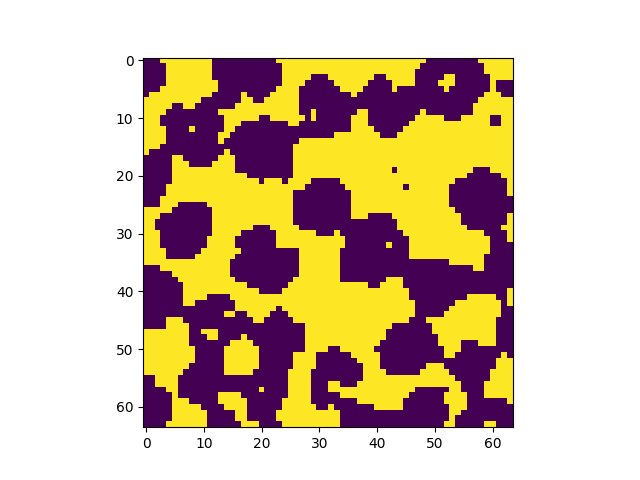
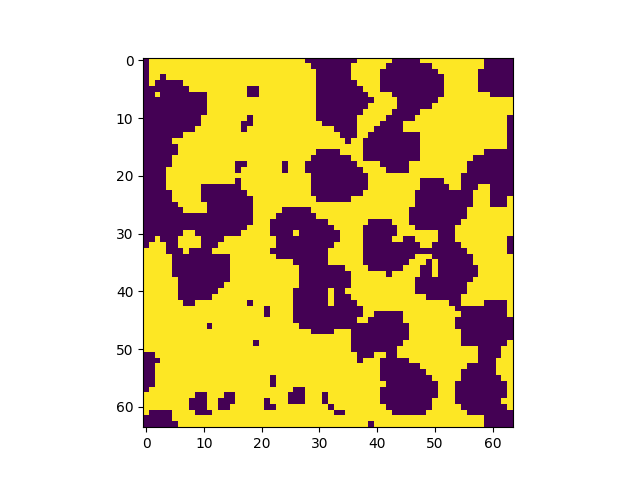
added noise choices

Changed region(s): [[0.2188, 0.125, 0.8125, 0.9062], [0.7812, 0.7188, 0.8125, 0.75]]

diff --git a/slicegan/model.py b/slicegan/model.py
@@ -11,7 +11,15 @@ import torch.nn.functional as F
 import pickle
 from cv2 import SimpleBlobDetector
 
-def train(pth, imtype, datatype, real_data, Disc, Gen, nc, l, nz, sf, lz, num_epochs, CircNet):
+noise_distributions = {
+    "normal" : torch.distributions.normal.Normal(0,1),
+    "laplace" : torch.distributions.laplace.Laplace(0,1),
+    "uniform" : torch.distributions.uniform.Uniform(-1,1),
+    "cauchy": torch.distributions.cauchy.Cauchy(0,1)
+
+}
+
+def train(pth, imtype, datatype, real_data, Disc, Gen, nc, l, nz, sf, lz, num_epochs, CircNet, noise_type):
     """
     train the generator
     :param pth: path to save all files, imgs and data
@@ -27,6 +35,12 @@ def train(pth, imtype, datatype, real_data, Disc, Gen, nc, l, nz, sf, lz, num_ep
     :param CircNet: Trained CircleNet
     :return:
     """
+
+    if noise_type not in ("normal","laplace","uniform","cauchy"):
+        raise ValueError("invalid noise distribution")
+    else:
+        noise_distribution = noise_distributions[noise_type]
+
     if len(real_data) == 1:
         real_data *= 3
         isotropic = True
@@ -104,7 +118,8 @@ def train(pth, imtype, datatype, real_data, Disc, Gen, nc, l, nz, sf, lz, num_ep
             ### Initialise
             ### Discriminator
             ## Generate fake image batch with G
-            noise = torch.randn(D_batch_size, nz, lz, lz, lz, device=device)
+            # noise = torch.randn(D_batch_size, nz, lz, lz, lz, device=device)
+            noise = noise_distribution.sample((D_batch_size, nz, lz, lz, lz)).to(device)
             fake_data = netG(noise).detach()
             
             # for each dim (d1, d2 and d3 are used as permutations to make 3D volume into a batch of 2D images)
@@ -172,7 +187,8 @@ def train(pth, imtype, datatype, real_data, Disc, Gen, nc, l, nz, sf, lz, num_ep
                 with torch.no_grad():
                     torch.save(netG.state_dict(), pth + '_Gen.pt')
                     torch.save(netD.state_dict(), pth + '_Disc.pt')
-                    noise = torch.randn(1, nz, lz, lz, lz, device=device)
+                    # noise = torch.randn(1, nz, lz, lz, lz, device=device)
+                    noise = noise_distribution.sample((D_batch_size, nz, lz, lz, lz)).to(device)
                     img = netG(noise)
                     ###Print progress
                     ## calc ETA

diff --git a/run_slicegan.py b/run_slicegan.py
@@ -35,6 +35,9 @@ img_size, img_channels, scale_factor = 64, 2,  1
 z_channels = 16
 # Layers in G and D
 lays = 6
+
+# Type of noise distribution
+noise_type = "normal"
 # kernals for each layer
 # dk, gk = [4]*lays, [4]*lays
 # # strides
@@ -60,9 +63,7 @@ net_params = {
     "gf": [z_channels,512,256,128,64,img_channels],
 
     "dp": [1,1,1,1,0],
-    "gp": [2,2,2,2,3]
-
-
+    "gp": [2,2,2,2,3],
     }
 
 ## Create Networks
@@ -107,7 +108,8 @@ if Training:
         "nz": z_channels,
         "sf": scale_factor,
         "lz": lz_calced,
-        "num_epochs": 1
+        "num_epochs": 1,
+        "noise_type": noise_type
     }
 
     model.train(**train_params)
@@ -118,6 +120,7 @@ else:
         "Gen": netG(),
         "nz": z_channels,
         "lf": 4,
-        "periodic": False
+        "periodic": False,
+        "noise_type": noise_type
     }
     img, raw, netG = util.test_img(**test_params)

diff --git a/test_distributions.py b/test_distributions.py
@@ -1,0 +1,15 @@
+import torch
+
+noise_distributions = {
+    "normal" : torch.distributions.normal.Normal(0,1),
+    "laplace" : torch.distributions.laplace.Laplace(0,1),
+    "uniform" : torch.distributions.uniform.Uniform(-1,1),
+    "cauchy": torch.distributions.cauchy.Cauchy(0,1)
+
+}
+
+k = noise_distributions["uniform"]
+
+t = k.sample((2,2,2))
+
+print(t)

diff --git a/slicegan/preprocessing.py b/slicegan/preprocessing.py
@@ -139,5 +139,3 @@ def batch(data,type,l, sf):
             dataset = torch.utils.data.TensorDataset(data)
             datasetxyz.append(dataset)
     return datasetxyz
-
-
